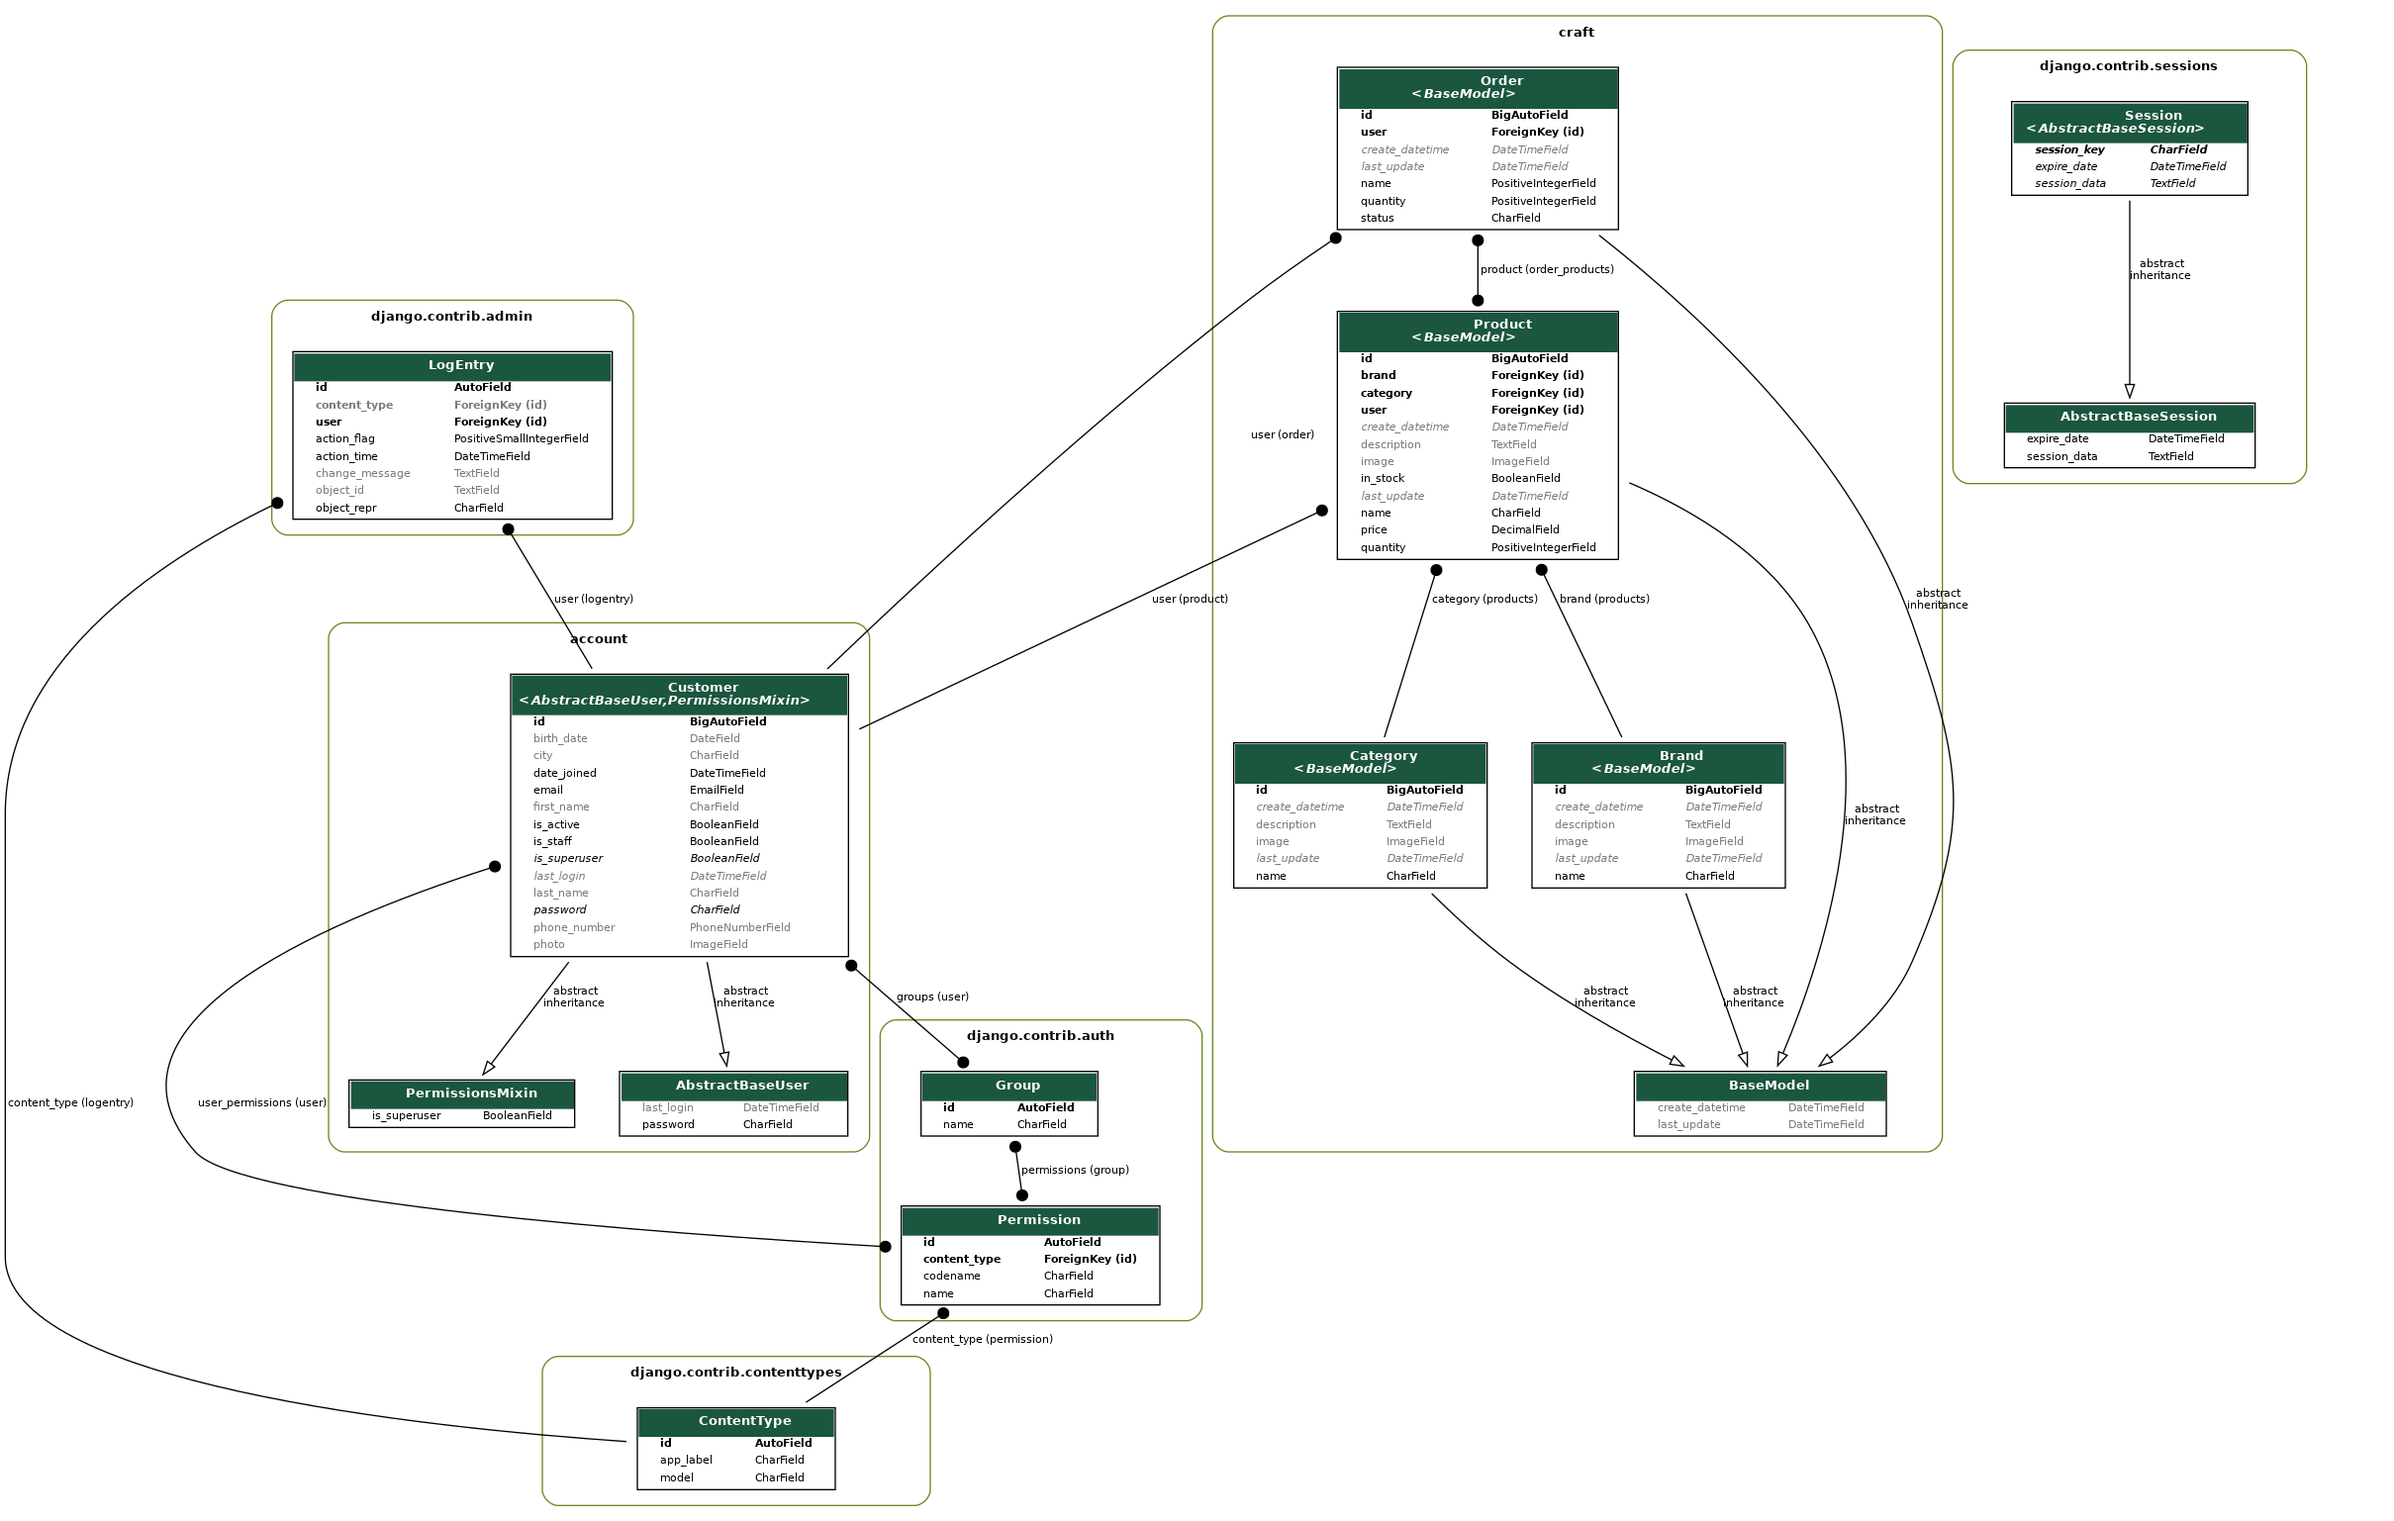
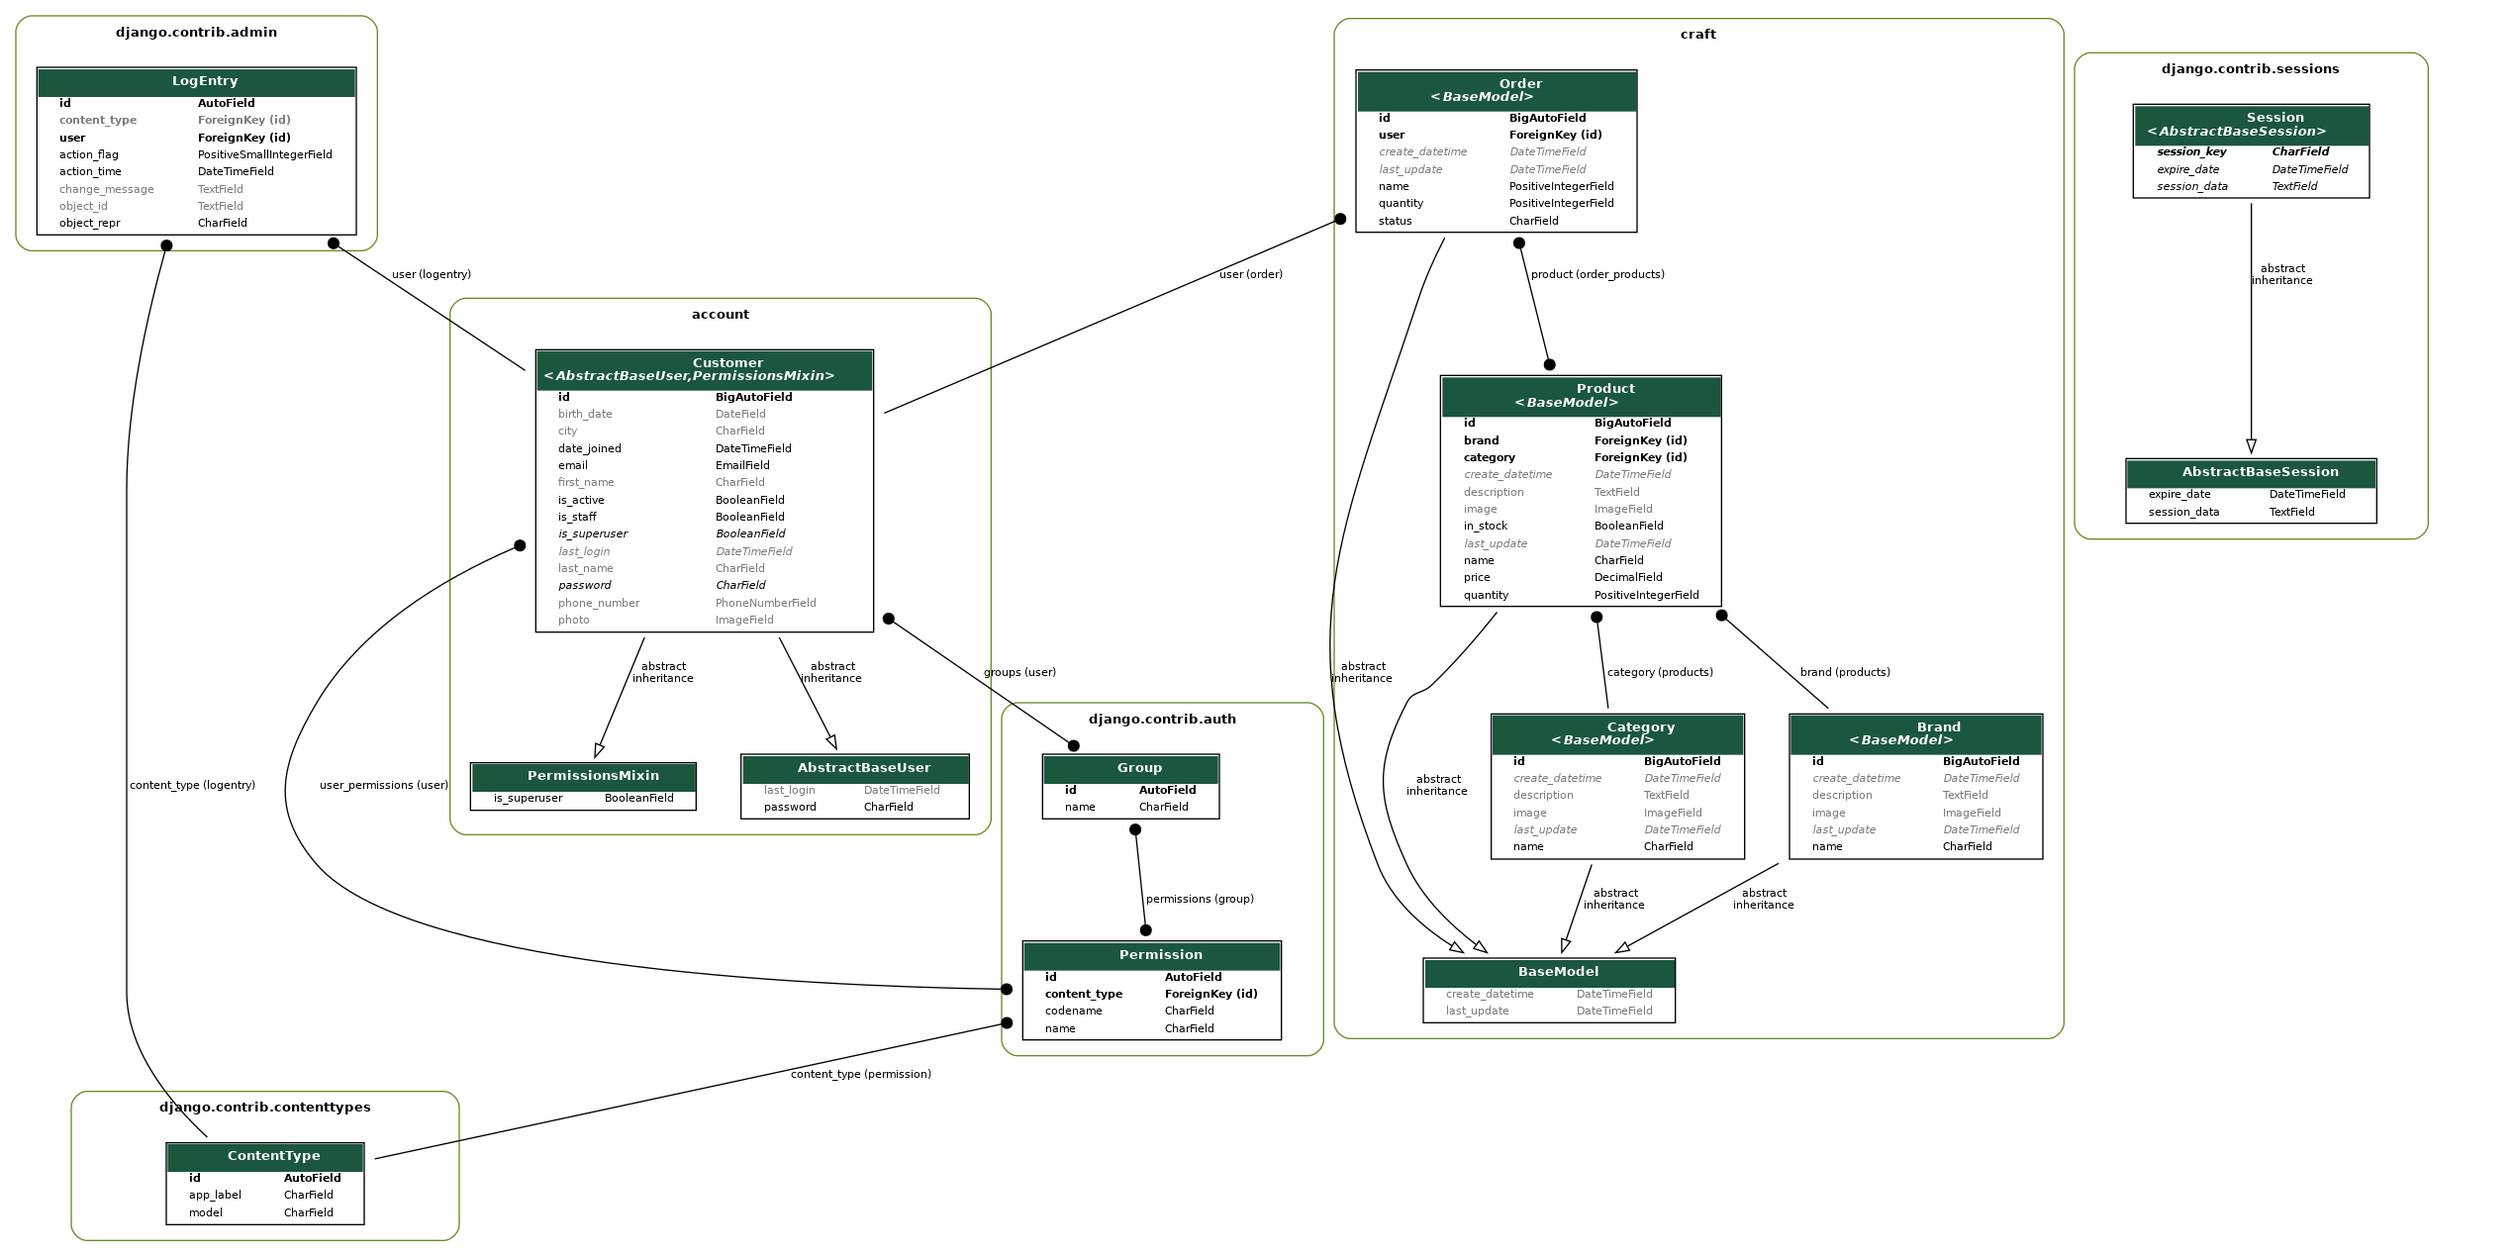
Added custom admin panel

diff --git a/src/templates/index.html b/src/templates/index.html
@@ -1,0 +1,10 @@
+<!DOCTYPE html>
+<html lang="en">
+<head>
+    <meta charset="UTF-8">
+    <title>Title</title>
+</head>
+<body>
+
+</body>
+</html>

diff --git a/src/craft/admin.py b/src/craft/admin.py
@@ -1,5 +1,52 @@
 from django.contrib import admin
+from django.urls import reverse
+from django.utils.html import format_html
 
 from craft.models import Brand, Category, Order, Product
 
-admin.site.register([Category, Brand, Product, Order])
+
+class ProductAdminInline(admin.StackedInline):
+    model = Product
+
+
+@admin.register(Category)
+class CategoryAdmin(admin.ModelAdmin):
+    list_display = ("name", "description")
+    inlines = [ProductAdminInline]
+
+
+@admin.register(Brand)
+class BrandAdmin(admin.ModelAdmin):
+    list_display = ("name", "description")
+    inlines = [ProductAdminInline]
+
+
+@admin.register(Product)
+class ProductAdmin(admin.ModelAdmin):
+    list_display = ("name", "price", "in_stock", "category", "brand", "quantity")
+    list_filter = ("category", "brand")
+    search_fields = ("name__istartswith",)
+
+
+@admin.register(Order)
+class OrderAdmin(admin.ModelAdmin):
+    list_display = ("name", "user", "status", "quantity", "product_count", "links_to_products")
+    list_filter = ("status",)
+    date_hierarchy = "create_datetime"
+
+    def product_count(self, obj):
+        if obj.product:
+            return obj.product.count()
+        return 0
+
+    def links_to_products(self, obj):
+        if obj.product:
+            products = obj.product.all()
+            links = []
+            for product in products:
+                links.append(
+                    f"<a class='button' href='{reverse('admin:craft_product_change', args=[product.pk])}'"
+                    f">{product.name}</a>"
+                )
+            return format_html("</br></br>".join(links))
+        return "No products found"

diff --git a/src/account/admin.py b/src/account/admin.py
@@ -1,4 +1,29 @@
 from django.contrib import admin
 from django.contrib.auth import get_user_model
+from django.contrib.auth.admin import UserAdmin
 
-admin.site.register([get_user_model()])
+
+@admin.register(get_user_model())
+class CustomerAdmin(UserAdmin):
+    ordering = ("first_name", "last_name")
+    list_display_links = ("email",)
+    readonly_fields = ("email",)
+    fields = ("first_name", "last_name", "password", "email", "phone_number", "birth_date", "photo", "city")
+    list_display = ("get_full_name", "email", "phone_number", "birth_date", "city")
+    search_fields = ("first_name__istartswith", "last_name__istartswith")
+    fieldsets = None
+    add_fieldsets = (
+        (
+            None,
+            {
+                "classes": ("wide",),
+                "fields": (
+                    "first_name",
+                    "last_name",
+                    "password1",
+                    "password2",
+                    "email",
+                ),
+            },
+        ),
+    )

diff --git a/src/craft/models.py b/src/craft/models.py
@@ -18,6 +18,7 @@ class Category(BaseModel):
 
     class Meta:
         ordering = ["name"]
+        verbose_name_plural = "Categories"
 
     def __str__(self):
         return self.name
@@ -53,7 +54,6 @@ class Brand(BaseModel):
 
 class Product(BaseModel):
     name = models.CharField(max_length=255)
-    user = models.ForeignKey(to=get_user_model(), on_delete=models.CASCADE)
     description = models.TextField(blank=True, null=True)
     image = models.ImageField(upload_to="product/", blank=True, null=True)
     price = models.DecimalField(max_digits=8, decimal_places=2)

diff --git a/src/craft/migrations/0002_alter_category_options_remove_product_user.py b/src/craft/migrations/0002_alter_category_options_remove_product_user.py
@@ -1,0 +1,20 @@
+# Generated by Django 4.2 on 2023-04-21 17:22
+
+from django.db import migrations
+
+
+class Migration(migrations.Migration):
+    dependencies = [
+        ("craft", "0001_initial"),
+    ]
+
+    operations = [
+        migrations.AlterModelOptions(
+            name="category",
+            options={"ordering": ["name"], "verbose_name_plural": "Categories"},
+        ),
+        migrations.RemoveField(
+            model_name="product",
+            name="user",
+        ),
+    ]

diff --git a/src/config/settings/base.py b/src/config/settings/base.py
@@ -18,6 +18,8 @@ BASE_DIR = Path(__file__).resolve().parent.parent.parent
 # Application definition
 
 INSTALLED_APPS = [
+    "admin_interface",
+    "colorfield",
     "django.contrib.admin",
     "django.contrib.auth",
     "django.contrib.contenttypes",
@@ -29,6 +31,9 @@ INSTALLED_APPS = [
     "account",
     "craft",
 ]
+
+X_FRAME_OPTIONS = "SAMEORIGIN"
+SILENCED_SYSTEM_CHECKS = ["security.W019"]
 
 MIDDLEWARE = [
     "django.middleware.security.SecurityMiddleware",

diff --git a/src/account/models.py b/src/account/models.py
@@ -54,6 +54,8 @@ class Customer(AbstractBaseUser, PermissionsMixin):
         full_name = "%s %s" % (self.first_name, self.last_name)
         return full_name.strip()
 
+    get_full_name.short_description = "Name and Surname"
+
     def get_short_name(self):
         """Return the short name for the user."""
         return self.first_name
